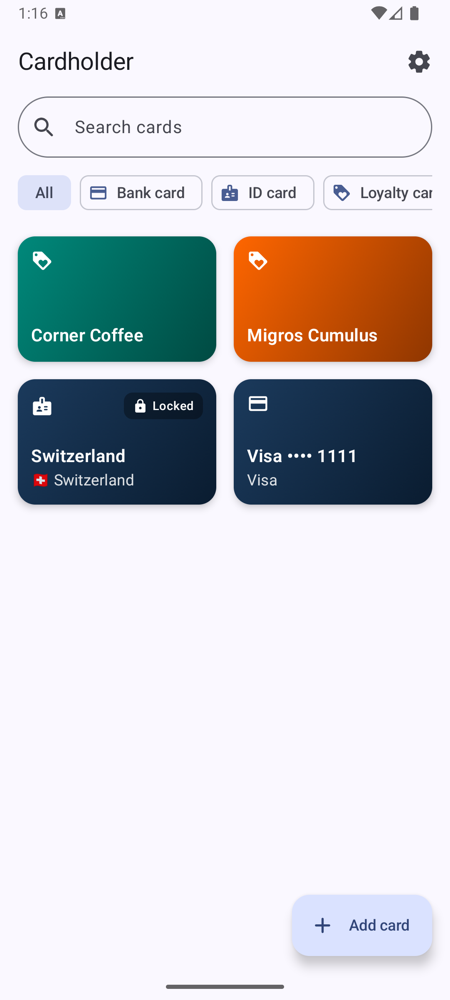
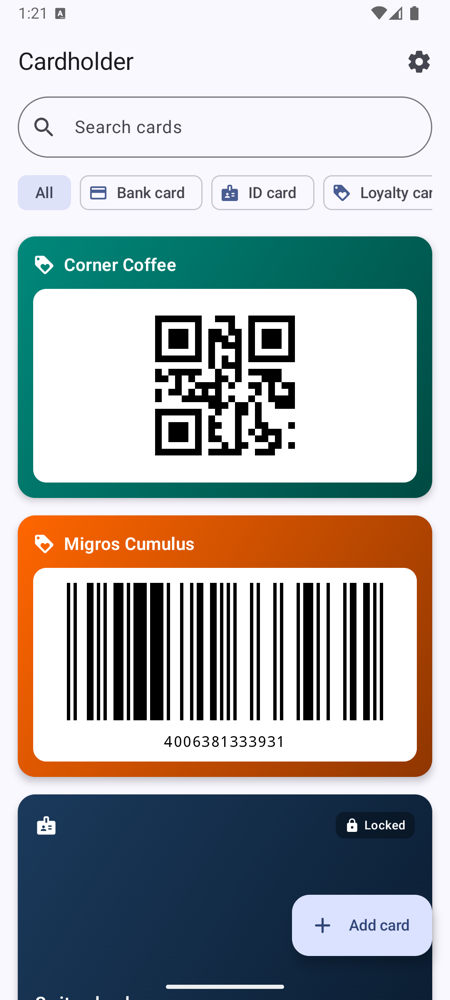
docs: refresh card list screenshot and roadmap

diff --git a/docs/ROADMAP.md b/docs/ROADMAP.md
@@ -34,7 +34,8 @@ Product decisions:
 | Auth-bound AES key + in-memory `UnlockSession` | **RSA-OAEP key pair**: encrypt with the public key, decrypt only within 30 s of authentication; decrypted data dropped on background | Saving a CVV or locking a card needs no prompt, and protection is cryptographic ([ADR 3](adr/0003-auth-bound-keys.md)). |
 | Coil with custom fetcher | As planned, with **disk cache disabled** and memory cache cleared on background | Never write decrypted photos to disk. |
 | Live scanner in a dialog | Full-screen composable in the editor window | Keeps the window's `FLAG_SECURE` and avoids SurfaceView layering issues. |
-| Drag-to-reorder cards | Sorted alphabetically with search and type filters | Deferred to the backlog. |
+| Drag-to-reorder cards | Sorted alphabetically with search and per-type toggles | Deferred to the backlog. |
+| Generated card faces in the list | Loyalty cards show their **scannable code directly on the card**; a tap opens it full-screen | Faster at the till; requested after the first review. |
 
 ## Backlog (post-v1)
 - Drag-to-reorder and favourites / most-used loyalty cards first.
